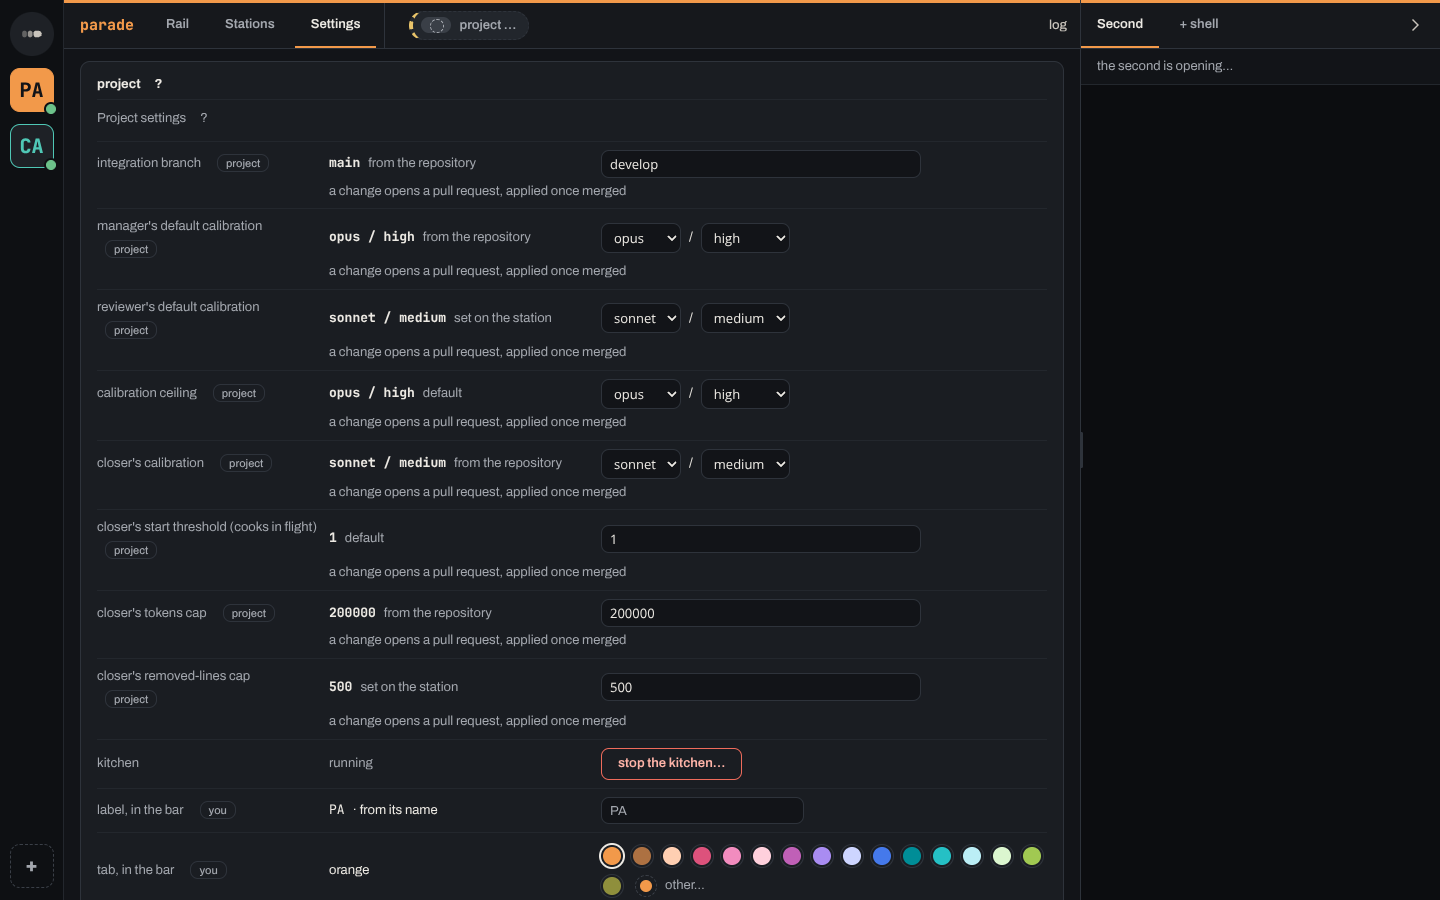
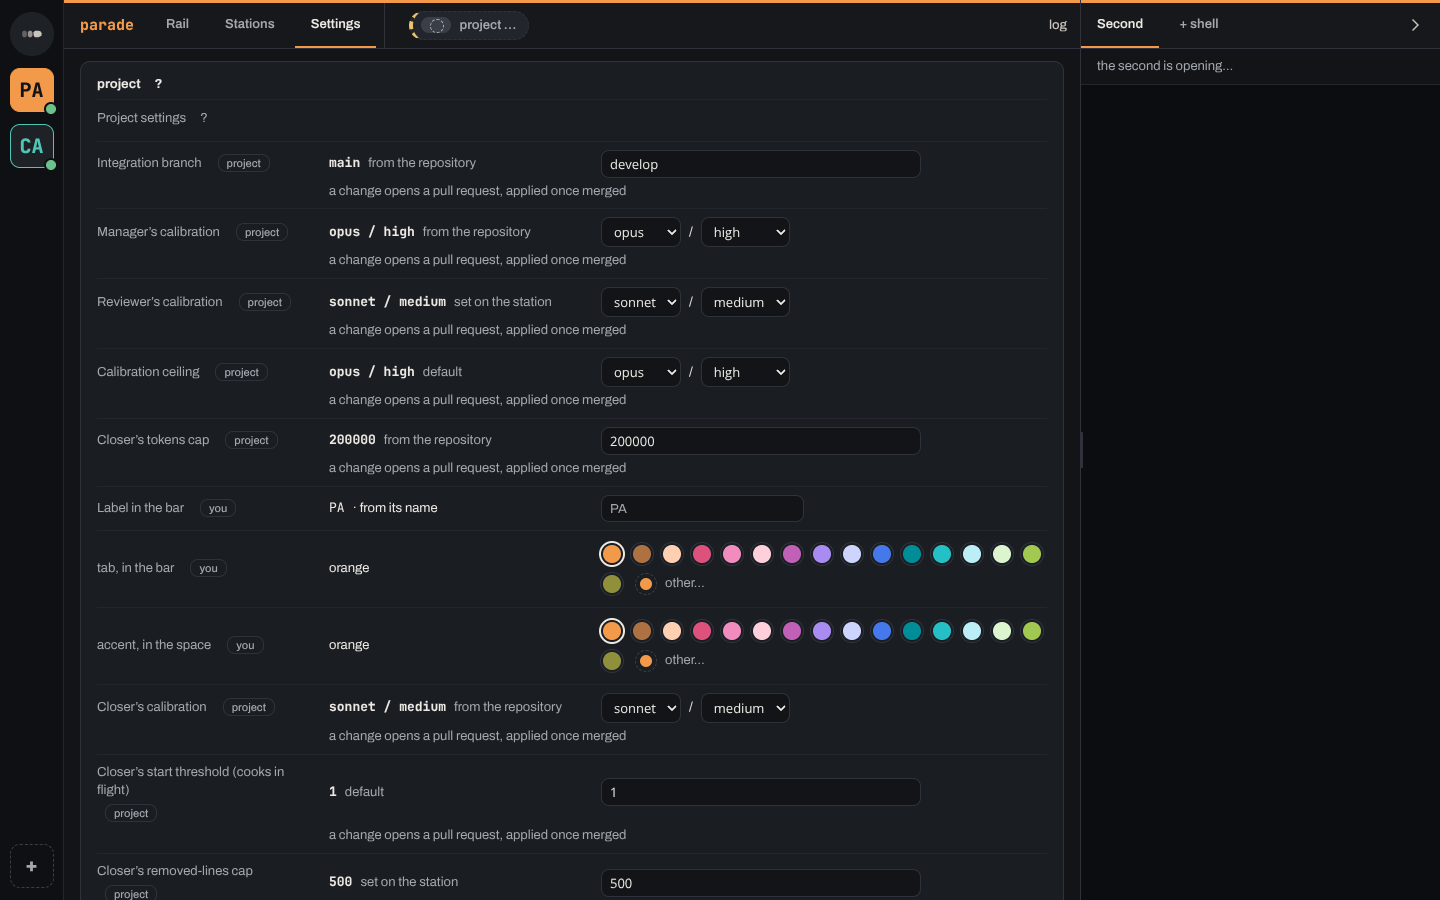
feat(#2914): project settings rows in the artboard's labels and order, undrawn rows kept after the colors, Kitchen in its own section

diff --git a/app/src/vue/vue.js b/app/src/vue/vue.js
@@ -231,6 +231,7 @@ const luOnglet = element("lu-onglet");
 const lectureOnglet = element("lecture-onglet");
 const interrupteurProjet = element("interrupteur-projet");
 const arreterCuisine = element("arreter-cuisine");
+const sectionCuisine = element("reglages-cuisine");
 const note = element("note");
 const ongletsTerminaux = element("terminaux");
 const fermerShell = element("fermer-shell");
@@ -311,6 +312,7 @@ function reposerLOngletStations() {
   if (courant !== undefined && ongletDe(courant) === STATIONS) poserRail(courant);
 }
 const reglagesDuProjet = element("reglages-du-projet");
+const reglagesEnPlus = element("reglages-du-projet-en-plus");
 const avis = element("avis");
 // Les stations du projet, sur Stations (tickets 1185, 1456, 2487) : une ligne chacune, son état, ses cooks ; et, en tête de l'onglet Rail, la ligne qui dit ce qui, du côté des cooks, demande un geste —
 // avec de quoi ouvrir Stations. poserCuisson les remplit ; poserRail les pose.
@@ -2479,7 +2481,7 @@ function poserSigle(projet) {
   const controle = projet.sigle === undefined ? [champ] : [champ, bouton("back to its name", () => void siglerProjet(projet, null))];
   const vaut = bloc("span", projet.etiquette);
   vaut.className = "mono";
-  sigle.replaceChildren(rangeeDeReglage("label, in the bar", [vaut, ` · ${projet.sigle === undefined ? "from its name" : "yours"}`], controle, refusDeReglage(sigleRefuse.refus), { cle: "sigle", niveau: niveauDe(document, "sigle") }));
+  sigle.replaceChildren(rangeeDeReglage("Label in the bar", [vaut, ` · ${projet.sigle === undefined ? "from its name" : "yours"}`], controle, refusDeReglage(sigleRefuse.refus), { cle: "sigle", niveau: niveauDe(document, "sigle") }));
 }
 
 // Un sigle écrit : le process principal l'écrit dans le fichier des projets, et il revient par `surConfiguration` — la
@@ -2542,15 +2544,19 @@ function gestesDuReglage(projet, cle) {
 function poserLesReglagesDuProjet(projet) {
   const etats = etatsDesReglages.get(projet.nom) ?? new Map();
   etatsDesReglages.set(projet.nom, etats);
-  const pose = poserLesReglages(document, {
+  const options = {
     lecture: reglagesLus.get(projet.nom),
     etats,
-    choisir: (cle, choisi) => gestesDuReglage(projet, cle).choisir(choisi),
-    proposer: (choix, dit) => void proposerUnReglage(projet, choix, dit),
-    ouvrir: (url) => void brigade.ouvrirLaProposition(url),
-  });
-  reglagesDuProjet.hidden = pose === null;
-  reglagesDuProjet.replaceChildren(...(pose === null ? [] : [pose]));
+    choisir: (/** @type {import("../reglages-du-projet.ts").Cle} */ cle, /** @type {string | { modele: string, effort: string }} */ choisi) => gestesDuReglage(projet, cle).choisir(choisi),
+    proposer: (/** @type {import("../reglages-du-projet.ts").ChoixDeReglage} */ choix, /** @type {string} */ dit) => void proposerUnReglage(projet, choix, dit),
+    ouvrir: (/** @type {string} */ url) => void brigade.ouvrirLaProposition(url),
+  };
+  // Les rangées de l'artboard d'abord ; celles qu'il ne dessine pas suivent, sous le sigle et la couleur.
+  for (const [conteneur, groupe] of /** @type {const} */ ([[reglagesDuProjet, "dessines"], [reglagesEnPlus, "en-plus"]])) {
+    const pose = poserLesReglages(document, { ...options, groupe });
+    conteneur.hidden = pose === null;
+    conteneur.replaceChildren(...(pose === null ? [] : [pose]));
+  }
 }
 
 // Un réglage du projet changé : le changement part par le process principal (reglages-du-projet.ts), qui attend que le
@@ -4225,6 +4231,7 @@ setInterval(() => {
 function poserArreter(projet, arretee) {
   const geste = GESTES_DE_LA_CUISINE.find(({ id }) => id === (arretee ? "reprendre" : "stop"));
   arreterCuisine.hidden = geste === undefined;
+  sectionCuisine.hidden = geste === undefined;
   if (geste === undefined) {
     arreterCuisine.replaceChildren();
     return poserLesGroupes();
@@ -4234,7 +4241,7 @@ function poserArreter(projet, arretee) {
     declencheur.dataset.arret = "";
     sorteDuBouton(declencheur, "danger");
   }
-  arreterCuisine.replaceChildren(rangeeDeReglage("kitchen", [bloc("span", arretee ? "stopped" : "running")], declencheur === undefined ? [] : [declencheur], dessous));
+  arreterCuisine.replaceChildren(rangeeDeReglage("Kitchen", [bloc("span", arretee ? "stopped" : "running")], declencheur === undefined ? [] : [declencheur], dessous));
   poserLesGroupes();
 }
 
@@ -4607,6 +4614,7 @@ function poserLeRail(projet) {
   delete rail.dataset.horsLigne;
   marquerLecture(projet);
   arreterCuisine.hidden = true;
+  sectionCuisine.hidden = true;
   // Plus de rail, plus de fiche par-dessus.
   if (rail.hidden && ouverte !== undefined) fermerFiche();
   if (rail.hidden) return rail.replaceChildren();

diff --git a/app/test/reglages-du-projet.test.ts b/app/test/reglages-du-projet.test.ts
@@ -53,14 +53,14 @@ describe("ce que `setting` rend, et ce que la proposition envoie", () => {
     assert.deepEqual(
       vus.reglages.map(({ cle, nom, dit, source }) => [cle, nom, dit, source]),
       [
-        ["branche", "integration branch", "main", "from the repository"],
-        ["manager", "manager's default calibration", "opus / high", "from the repository"],
-        ["reviewer", "reviewer's default calibration", null, "not set"],
-        ["plafond", "calibration ceiling", "opus / high", "default"],
-        ["closer", "closer's calibration", "sonnet / medium", "from the repository"],
-        ["closer-cooks", "closer's start threshold (cooks in flight)", "1", "default"],
-        ["closer-tokens", "closer's tokens cap", "200000", "from the repository"],
-        ["closer-lines", "closer's removed-lines cap", "800", "set on the station"],
+        ["branche", "Integration branch", "main", "from the repository"],
+        ["manager", "Manager’s calibration", "opus / high", "from the repository"],
+        ["reviewer", "Reviewer’s calibration", null, "not set"],
+        ["plafond", "Calibration ceiling", "opus / high", "default"],
+        ["closer", "Closer’s calibration", "sonnet / medium", "from the repository"],
+        ["closer-cooks", "Closer’s start threshold (cooks in flight)", "1", "default"],
+        ["closer-tokens", "Closer’s tokens cap", "200000", "from the repository"],
+        ["closer-lines", "Closer’s removed-lines cap", "800", "set on the station"],
       ],
     );
     assert.equal(reglagesVus("not json"), null);
@@ -154,7 +154,8 @@ async function ouvrir(lecture: LectureDesReglages = { vus: reglagesVus(SORTIE) ?
 }
 
 const section = (vue: Jouee) => vue.element("reglages-du-projet").children[0] ?? assert.fail("pas de réglages du projet");
-const rangee = (vue: Jouee, cle: string) => section(vue).children.find((pose) => pose.dataset.cle === cle) ?? assert.fail(`pas de rangée ${cle}`);
+const enPlus = (vue: Jouee) => vue.element("reglages-du-projet-en-plus").children[0] ?? assert.fail("pas de réglages en plus");
+const rangee = (vue: Jouee, cle: string) => [...section(vue).children, ...enPlus(vue).children].find((pose) => pose.dataset.cle === cle) ?? assert.fail(`pas de rangée ${cle}`);
 const valeur = (pose: Faux) => pose.dessous("p").find((p) => p.className === "valeur")?.textContent;
 const dit = (pose: Faux) => pose.dessous("p").find((p) => p.className.startsWith("dit"));
 const parPr = (pose: Faux) => pose.dessous("p").find((p) => p.className === "par-pr")?.textContent;
@@ -178,7 +179,12 @@ describe("Settings : les réglages du projet, chacun changé par une PR", () => 
     assert.match(section(vue).children[0]?.textContent ?? "", new RegExp(`^${TITRE}`));
     assert.deepEqual(
       section(vue).children.slice(1).map((pose) => pose.dataset.cle),
-      ["branche", "manager", "reviewer", "plafond", "closer", "closer-cooks", "closer-tokens", "closer-lines"],
+      ["branche", "manager", "reviewer", "plafond", "closer-tokens"],
+    );
+    // Les réglages que l'artboard ne dessine pas suivent, dans leur propre bloc, sous le sigle et la couleur.
+    assert.deepEqual(
+      enPlus(vue).children.map((pose) => pose.dataset.cle),
+      ["closer", "closer-cooks", "closer-lines"],
     );
     assert.equal(valeur(rangee(vue, "branche")), "mainfrom the repository");
     assert.equal(rangee(vue, "branche").dessous("input")[0]?.value, "main");

diff --git a/app/src/vue/projet/reglages.js b/app/src/vue/projet/reglages.js
@@ -25,6 +25,10 @@ import { niveauDe } from "../niveaux.js";
 // qu'elle a rendu.
 /** @typedef {{ choisi?: string | { modele: string, effort: string }, enCours?: boolean, dit?: Dit }} Etat */
 
+// Les rangées que l'artboard `Settings.dc.html` dessine, dans son ordre (« Label in the bar » est celle du sigle, posée
+// à part) ; les autres réglages, réels eux aussi, suivent plus bas, sous la couleur.
+/** @type {readonly Cle[]} */
+const DESSINES = ["branche", "manager", "reviewer", "plafond", "closer-tokens"];
 export const TITRE = "Project settings";
 export const AIDE =
   "Kept in the project's repository (.claude/brigade/projet.json), for everyone who clones it. A change is proposed as a pull request, held for you: it applies once merged. Nothing is saved on the box.";
@@ -135,22 +139,29 @@ export function poserUnReglage(doc, { vu, modeles, efforts, etat, choisir, propo
 // La section des réglages, ou null tant que rien n'est lu. Une lecture ratée tient en une ligne, son détail au survol.
 /**
  * @param {Fabrique} doc
- * @param {{ lecture: Lecture | undefined, etats: ReadonlyMap<Cle, Etat>, choisir: (cle: Cle, choisi: string | { modele: string, effort: string }) => void, proposer: (choix: Choix, dit: string) => void, ouvrir: (url: string) => void }} options
+ * @param {{ lecture: Lecture | undefined, etats: ReadonlyMap<Cle, Etat>, choisir: (cle: Cle, choisi: string | { modele: string, effort: string }) => void, proposer: (choix: Choix, dit: string) => void, ouvrir: (url: string) => void, groupe?: "dessines" | "en-plus" }} options
  */
-export function poserLesReglages(doc, { lecture, etats, choisir, proposer, ouvrir }) {
+export function poserLesReglages(doc, { lecture, etats, choisir, proposer, ouvrir, groupe = "dessines" }) {
   if (lecture === undefined) return null;
+  const enPlus = groupe === "en-plus";
+  if (enPlus && "sans" in lecture) return null;
   const section = cree(doc, "section");
   section.className = "reglages-du-projet";
   section.ariaLabel = TITRE;
   // Sa tête est une rangée sans contrôle : son titre, où ses réglages sont gardés au survol.
-  const titre = rangeeDeReglage(doc, { nom: TITRE, classe: "tete" });
-  titre.children[0]?.append(survol(doc, AIDE));
-  section.append(titre);
+  if (!enPlus) {
+    const titre = rangeeDeReglage(doc, { nom: TITRE, classe: "tete" });
+    titre.children[0]?.append(survol(doc, AIDE));
+    section.append(titre);
+  }
   if ("sans" in lecture) {
     section.append(ligneErreur(doc, lecture.sans, lecture.detail ?? ""));
     return section;
   }
-  const { reglages, modeles, efforts } = lecture.vus;
+  const { modeles, efforts } = lecture.vus;
+  const reglages = lecture.vus.reglages.filter((vu) => DESSINES.includes(vu.cle) !== enPlus);
+  // L'ordre de l'artboard, non celui de la lecture.
+  if (!enPlus) reglages.sort((a, b) => DESSINES.indexOf(a.cle) - DESSINES.indexOf(b.cle));
   section.append(
     ...reglages.map((vu) => poserUnReglage(doc, { vu, modeles, efforts, etat: etats.get(vu.cle), choisir: (choisi) => choisir(vu.cle, choisi), proposer, ouvrir })),
   );

diff --git a/runtime/src/attend.ts b/runtime/src/attend.ts
@@ -266,7 +266,7 @@ export const REFERMER_LE_DISJONCTEUR = geste("guardrails resume");
 // réponses de commandes).
 const BOUTON_RESUME = "the `Resume` button on the breaker line of TODO";
 const BOUTON_LOG_IN = "the `log in` button on the station's page in the app, opened by a click on its line of the home screen";
-const BOUTON_REPRENDRE_LA_CUISINE = "the `resume the kitchen` button on the `kitchen` line of the project's Settings";
+const BOUTON_REPRENDRE_LA_CUISINE = "the `resume the kitchen` button on the `Kitchen` line of the project's Settings";
 // Un réglage du projet gardé dans son dépôt se change sur sa ligne de Settings : changée, elle ouvre sa PR (#2920).
 const LIGNE_DU_PROJET = (reglage: string) => `on the \`${reglage}\` line of the project's Settings`;
 const SANS_BOUTON = "no app button for it yet";
@@ -548,7 +548,7 @@ function direSetupBloqueEn({ setup }: Extract<Attente, { quoi: "setup" }>): stri
 function direRefusDeLaFermetureEn(retenue: Refus): string {
   switch (retenue.reason) {
     case "unconfigured":
-      return `the closer is not set on this project — set its calibration ${LIGNE_DU_PROJET("closer's calibration")}: the change opens a pull request, it applies once merged`;
+      return `the closer is not set on this project — set its calibration ${LIGNE_DU_PROJET("Closer’s calibration")}: the change opens a pull request, it applies once merged`;
     case "stopped":
       return `the kitchen has been stopped by the chef since ${retenue.detail} — ${BOUTON_REPRENDRE_LA_CUISINE} first`;
     case "breaker":
@@ -564,7 +564,7 @@ function direFermetureEn({ since, sansIssue }: DemandeDeFermeture, retenue: Refu
   if (!faitAttendre(retenue)) return `${demandee}: ${refus} — the runtime refuses it at its next wake-up, nothing leaves`;
   const renoncer = `withdraw it: ${SANS_BOUTON}`;
   if (sansIssue === null) return `${demandee}, it waits — ${refus}; it leaves on its own, once, as soon as nothing holds it back, without anyone restarting it — to ${renoncer}`;
-  return `CLOSING PASS WITH NO WAY OUT: requested on ${since}, it has waited for more than ${SANS_ISSUE_MS / 3_600_000} h — ${refus}; the rail does not empty on its own — to decide: raise the closer's start threshold ${LIGNE_DU_PROJET("closer's start threshold (cooks in flight)")}, switch the project off while the rail empties (the \`project off\` switch at the head of the space), or ${renoncer}`;
+  return `CLOSING PASS WITH NO WAY OUT: requested on ${since}, it has waited for more than ${SANS_ISSUE_MS / 3_600_000} h — ${refus}; the rail does not empty on its own — to decide: raise the closer's start threshold ${LIGNE_DU_PROJET("Closer’s start threshold (cooks in flight)")}, switch the project off while the rail empties (the \`project off\` switch at the head of the space), or ${renoncer}`;
 }
 
 // Une phrase reprise au milieu d'une ligne.

diff --git a/app/src/vue/index.html b/app/src/vue/index.html
@@ -130,12 +130,17 @@
             <h2 id="niveau-project" class="niveau-du-groupe"></h2>
             <p id="vide-project" class="vide" hidden></p>
             <div id="reglages-du-projet" aria-live="polite" hidden></div>
-            <div id="humains-du-projet" aria-live="polite" hidden></div>
-            <div id="stations-contributrices" aria-live="polite" hidden></div>
-            <div id="arreter-cuisine" class="gestes" aria-label="The kitchen" hidden></div>
             <div id="sigle" aria-label="The project's label in the bar" hidden></div>
             <div id="couleurs" aria-label="The project colors" hidden></div>
+            <div id="reglages-du-projet-en-plus" aria-live="polite" hidden></div>
+            <div id="humains-du-projet" aria-live="polite" hidden></div>
+            <div id="stations-contributrices" aria-live="polite" hidden></div>
             <div id="retrait" aria-label="Remove this project from the app's sidebar" hidden></div>
+          </section>
+          <!-- La cuisine, sa section à elle comme dans l'artboard `Settings.dc.html` : sa seule rangée n'est pas entre des réglages. -->
+          <section id="reglages-cuisine" class="groupe" aria-label="Kitchen" hidden>
+            <h2 id="titre-cuisine" class="niveau-du-groupe">Kitchen</h2>
+            <div id="arreter-cuisine" class="gestes" aria-label="The kitchen" hidden></div>
           </section>
         </section>
         <!-- Ce qui était sous « This machine » (ticket 2494) n'est plus dans Settings, qui ne tient que les réglages du

diff --git a/app/src/reglages-du-projet.ts b/app/src/reglages-du-projet.ts
@@ -37,15 +37,16 @@ export type ChoixDeReglage = { cle: Ecrit; valeur: string } | { cle: Calibre; mo
 export type RenduDuReglage = { propose: string; pr: string; numero: number } | { refus: string; detail?: string };
 
 export const NOMS: Readonly<Record<Cle, string>> = {
-  branche: "integration branch",
-  manager: "manager's default calibration",
-  reviewer: "reviewer's default calibration",
-  plafond: "calibration ceiling",
-  closer: "closer's calibration",
-  "closer-cooks": "closer's start threshold (cooks in flight)",
-  "closer-tokens": "closer's tokens cap",
-  "closer-lines": "closer's removed-lines cap",
+  branche: "Integration branch",
+  manager: "Manager’s calibration",
+  reviewer: "Reviewer’s calibration",
+  plafond: "Calibration ceiling",
+  closer: "Closer’s calibration",
+  "closer-cooks": "Closer’s start threshold (cooks in flight)",
+  "closer-tokens": "Closer’s tokens cap",
+  "closer-lines": "Closer’s removed-lines cap",
 };
+
 // Les nombres du closer : le mot de la commande, et le nom que `setting` leur donne.
 const NOMBRES = { "closer-cooks": "cooksBelow", "closer-tokens": "maxTokens", "closer-lines": "maxRemovedLines" } as const;
 const SOURCES: Readonly<Record<string, string>> = {

diff --git a/runtime/test/attend-en-anglais.test.ts b/runtime/test/attend-en-anglais.test.ts
@@ -262,9 +262,9 @@ const DE_L_APP: Record<string, [fichier: string, ecrit: string]> = {
   Resume: ["vue/todo-breaker-line.js", 'REPRENDRE = "Resume"'],
   "log in": ["pannes/pannes.ts", 'libelle: "log in"'],
   "resume the kitchen": ["cuisine.ts", 'libelle: "resume the kitchen"'],
-  kitchen: ["vue/vue.js", 'rangeeDeReglage("kitchen"'],
-  "closer's calibration": ["reglages-du-projet.ts", `closer: "closer's calibration"`],
-  "closer's start threshold (cooks in flight)": ["reglages-du-projet.ts", `"closer-cooks": "closer's start threshold (cooks in flight)"`],
+  Kitchen: ["vue/vue.js", 'rangeeDeReglage("Kitchen"'],
+  "Closer’s calibration": ["reglages-du-projet.ts", `closer: "Closer’s calibration"`],
+  "Closer’s start threshold (cooks in flight)": ["reglages-du-projet.ts", `"closer-cooks": "Closer’s start threshold (cooks in flight)"`],
   "project off": ["vue/vue.js", '"project off"'],
 };
 const NOMMES_DE_L_APP = [/the `([^`]+)` (?:button|switch)\b/g, /on the `([^`]+)` line of the project's Settings/g];

diff --git a/app/test/rail.test.ts b/app/test/rail.test.ts
@@ -438,7 +438,7 @@ describe("le haut du rail est allégé (#623)", () => {
     const bouton = arret.dessous("button").find((pose) => /stop the kitchen/.test(pose.textContent)) ?? assert.fail("pas de bouton d'arrêt");
     assert.equal(bouton.dataset.arret, "");
     assert.equal(arret.dessous("p").find(({ className }) => className === "valeur")?.textContent, "running");
-    assert.deepEqual(arret.dessous("span").filter(({ className }) => className === "nom").map(({ textContent }) => textContent), ["kitchen"]);
+    assert.deepEqual(arret.dessous("span").filter(({ className }) => className === "nom").map(({ textContent }) => textContent), ["Kitchen"]);
   });
 
   test("une lecture vieille se dit en tête, avec son âge ; une lecture neuve ne dit rien", async () => {

diff --git a/app/test/vue/projet/reglages-du-projet-seulement.test.ts b/app/test/vue/projet/reglages-du-projet-seulement.test.ts
@@ -26,6 +26,8 @@ const BLOCS = [...settings.matchAll(/<div id="([\w-]+)"/g)].map((trouve) => trou
 // bloc aussi. `reglages-du-projet` porte une ligne par clé de `setting` (CLES) : toutes dans projet.json.
 const STOCKAGE: Record<string, string> = {
   "reglages-du-projet": PROJET_JSON,
+  // Les rangées que l'artboard ne dessine pas (closer) : les mêmes clés de `setting`, dans un bloc sous la couleur.
+  "reglages-du-projet-en-plus": PROJET_JSON,
   // Les humains du projet (#2930) : la clé `humans`, changée par une PR.
   "humains-du-projet": PROJET_JSON,
   "arreter-cuisine": STATION,

diff --git a/app/test/sigle.test.ts b/app/test/sigle.test.ts
@@ -187,7 +187,7 @@ describe("le sigle dans la vue", () => {
     await ouvrirReglages(vue, "mirrorlab");
     assert.equal(vue.element("sigle").hidden, false);
     assert.equal(ligne(vue).dataset.cle, "sigle");
-    assert.match(ligne(vue).textContent, /^label, in the bar.*ML · from its name/);
+    assert.match(ligne(vue).textContent, /^Label in the bar.*ML · from its name/);
     const champ = ligne(vue).dessous("input")[0] ?? assert.fail("pas de champ");
     assert.equal(champ.value, "");
     assert.equal(champ.placeholder, "ML");

diff --git a/docs/app.md b/docs/app.md
@@ -2089,7 +2089,7 @@ On the left, a column of tiles, Slack or Discord style:
   `mirrorscreen` and `mirrorlab` read `MS` and `ML` — or its second letter when no other name starts like it
   (`brigade` → `BR`). Should two names still want the same label, the one first in alphabetical order keeps it
   and the other takes its next free one. Rearranging the bar never changes a label.
-- **You can write your own label** for a project in its Settings, under `you` ("label, in the bar"): 3 characters at
+- **You can write your own label** for a project in its Settings, under `you` ("Label in the bar"): 3 characters at
   most, written to `sigle` in the projects file, and the tile follows at once. Emptied, or with "back to its name",
   the tile goes back to the derived label. A label another project already carries as yours is refused, saying
   whose; the derived labels step aside from yours. Like the colors, it follows you from one device to another.
@@ -2388,7 +2388,7 @@ renders it. **Reliability and Closer are no longer there either** (#1699), nor o
 clicking it again closes it.
 
 **The project's settings, changed by a pull request** (#1309, epic #1301). At the top of Settings, in its **project** group,
-one row per project setting: the integration branch, the manager's and the reviewer's
+one row per project setting, in the order and with the labels of the artboard `Settings.dc.html` (Integration branch, Manager’s calibration, Reviewer’s calibration, Calibration ceiling, Closer’s tokens cap, then the label and the colors in the bar); the closer's other three settings, which the artboard does not draw, follow under the colors as rows of the same component, and the kitchen is its own *Kitchen* section below. The rows: the integration branch, the manager's and the reviewer's
 default calibrations, the calibration ceiling, and the closer's four settings (#1685) — its calibration, its start
 threshold (`cooksBelow`), its tokens cap and its removed-lines cap. Each row says the value in force and where it comes from — `from the
 repository` (`.claude/brigade/projet.json`), `set on the station`, `from CLAUDE.md`, `default` — and has its edit control —
